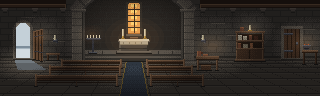
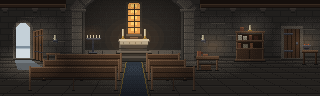
Templo B: os bancos na escala do clérigo (protótipo, sexta passada)
Medidos pela conta de distância do piso, os bancos tinham ~0,45 m, metade de um banco real.
Agora saem de medidas em metros na escala do clérigo (1,70 m = 32 px em y 70): 0,90 m até o
alto do encosto e 0,45 m no assento, nas três fileiras pela mesma perspectiva. As fileiras
vieram para mais perto, para os degraus do presbitério aparecerem pelo corredor, e o bloco
da direita acaba antes do pé da mesa dos panos.

diff --git a/ferramentas/prototipos/templo/b/desenho.py b/ferramentas/prototipos/templo/b/desenho.py
@@ -283,8 +283,12 @@ def entrada(px):
     px(46, PAREDE + 2, 14, 1, "contato")
 
 
-BANCOS = [68, 76, 86]            # onde cada fileira pisa (do fundo para a frente)
-BLOCOS = [(20, 116), (152, 214)]  # cada bloco na borda de baixo (y = QH): as pontas seguem as linhas até VP
+BANCOS = [72, 80, 90]            # onde cada fileira pisa (do fundo para a frente): longe o bastante do presbitério
+                                 # para os degraus aparecerem pelo corredor
+METRO = 28.2                     # 1 m em pixels na borda de baixo (k = 1): o clérigo, ~1,70 m, tem 32 px pisando em y 70
+BANCO_ALTO, ASSENTO = 0.90, 0.45  # um banco de igreja: o alto do encosto e o assento, em metros
+BLOCOS = [(20, 116), (152, 200)]  # cada bloco na borda de baixo (y = QH): as pontas seguem as linhas até VP; o da
+                                  # direita acaba antes do pé da mesa dos panos
 
 
 def pela_distancia(y_pe):
@@ -300,12 +304,12 @@ def bancos(px):
     painel de duas tábuas retas; a altura dele e a do banco saem da mesma conta da distância, nas três fileiras."""
     for pe in BANCOS:
         k = pela_distancia(pe)
-        alto = round(13 * k)                      # do alto do encosto ao chão
+        alto = round(BANCO_ALTO * METRO * k)     # do alto do encosto ao chão, na escala do clérigo
         topo = pe - alto
         for xb0, xb1 in BLOCOS:
             x0 = round(VP[0] + (xb0 - VP[0]) * k)
             x1 = round(VP[0] + (xb1 - VP[0]) * k)
-            h = round(7 * k)                         # o encosto: duas tábuas, a altura pela distância
+            h = alto - round(ASSENTO * METRO * k)    # o encosto, do alto até o assento: duas tábuas
             px(x0, topo, x1 - x0, h, "madeira")
             px(x0, topo, x1 - x0, 1, "madeiraLuz")
             px(x0, topo + h // 2, x1 - x0, 1, "madeiraEsc")    # a junta entre as duas tábuas

diff --git a/ferramentas/prototipos/templo/LEIA-ME.md b/ferramentas/prototipos/templo/LEIA-ME.md
@@ -227,3 +227,18 @@ espessura interna com poucos planos, sem textura miúda.
 **Conferido:** os recortes ampliados do arco e dos bancos; no jogo, pela demonstração, nas duas resoluções (as 20
 checagens: o interior, os pontos, os serviços, a Saída e o Esc, ninguém precisando, sem ouro, o relógio, a pose
 parada, sem erros no console). Integração não autorizada.
+
+## B, sexta passada (28/10/2026): a altura dos bancos pela escala do clérigo
+
+**O que o Jean perguntou:** se a altura dos bancos estava certa em relação ao clérigo. Não estava: medidos pela mesma
+conta de distância do piso, eles tinham ~0,45 m (8, 10 e 11 px), a altura de um assento sem encosto. O clérigo, ~1,70
+m, tem 32 px pisando em y 70: 1 m vale 28,2 px na borda de baixo do quadro (`METRO`). A mesa dos panos já estava certa
+(0,74 m).
+
+- **A altura:** os bancos saem de medidas em metros (`BANCO_ALTO` 0,90 m até o alto do encosto, `ASSENTO` 0,45 m) na
+  escala do clérigo e pela distância: 18, 20 e 23 px, com o encosto de duas tábuas do alto até o assento.
+- **O lugar:** com a altura certa, a fileira do fundo cobria os degraus e a base do altar; as fileiras vieram para mais
+  perto (pisam em 72, 80 e 90), e os degraus aparecem pelo corredor, como na referência. O bloco da direita acaba antes
+  do pé da mesa dos panos (o apoio dela continua à vista).
+
+**Conferido:** no jogo, pela demonstração, nas duas resoluções (as 20 checagens). Integração não autorizada.

diff --git a/roadmapIDEIAS/00-COMECE-AQUI.md b/roadmapIDEIAS/00-COMECE-AQUI.md
@@ -8299,3 +8299,11 @@ Tudo no protótipo (`ferramentas/prototipos/hud/LEIA-ME.md`, as seções de mesm
   o pilar, com a face e o intradorso (a espessura continuando pelo lado de dentro dos pilares); os bancos e a passadeira
   pela mesma perspectiva do piso, com o encosto de duas tábuas retas. Conferido no jogo nas duas resoluções. Integração
   não autorizada.
+
+### 28/10/2026 (data do computador local) — Templo B: os bancos na escala do clérigo (protótipo, sexta passada)
+
+- **Pergunta do Jean:** a altura dos bancos em relação ao clérigo. Medidos pela conta de distância do piso, tinham
+  ~0,45 m (metade de um banco real).
+- **Feito (só no protótipo):** os bancos passam a sair de medidas em metros na escala do clérigo (0,90 m no encosto,
+  0,45 m no assento); as fileiras vieram para mais perto, para os degraus aparecerem pelo corredor, e o bloco da
+  direita acaba antes do pé da mesa. Conferido no jogo nas duas resoluções. Integração não autorizada.
